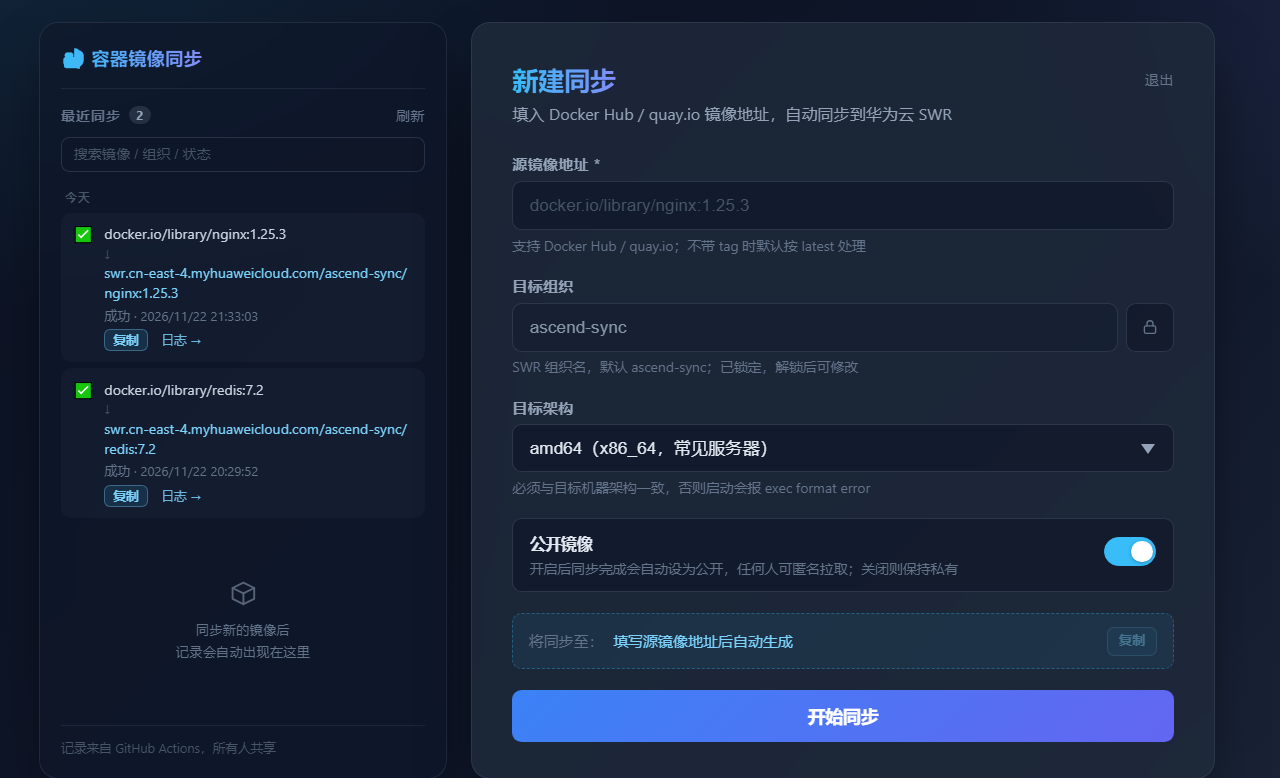
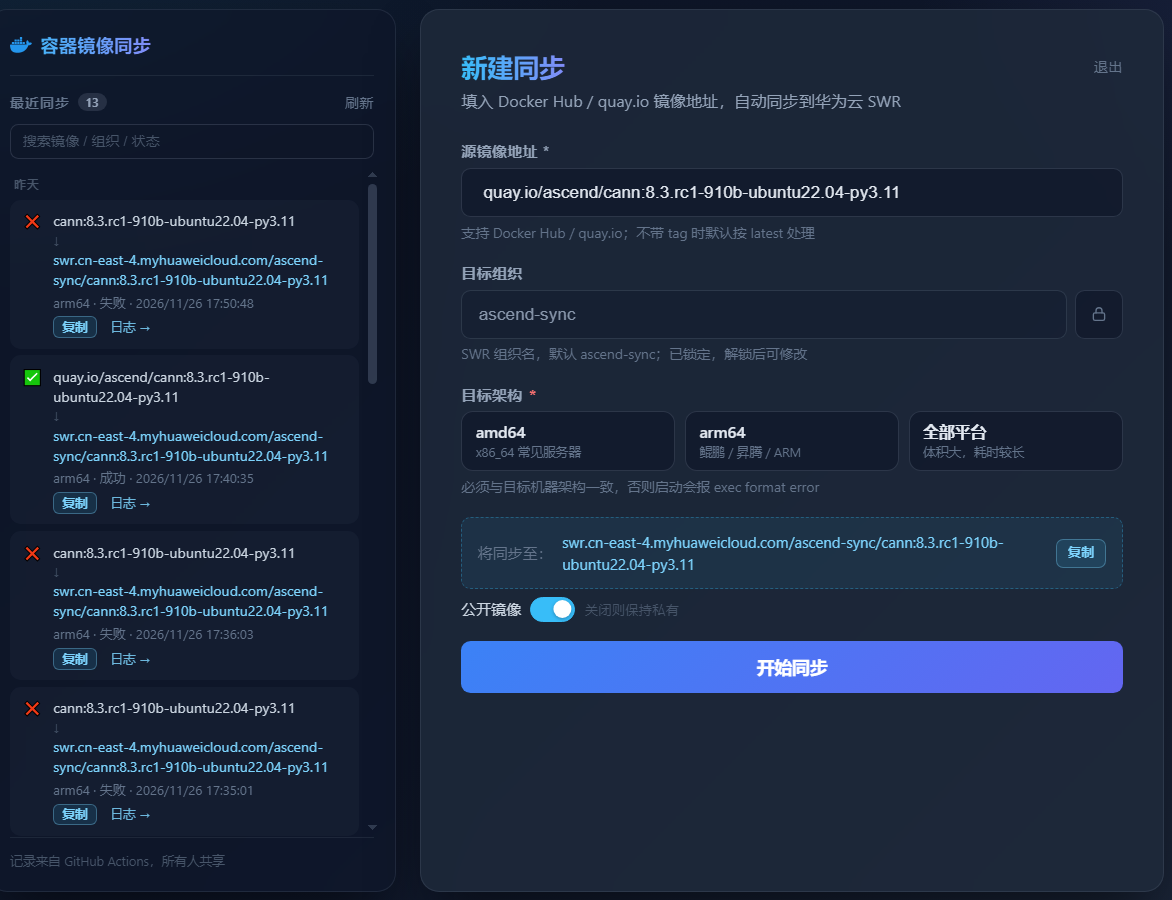
docs: correct arch default wording and refresh screenshots

diff --git a/README.md b/README.md
@@ -23,8 +23,9 @@
 |:---:|:---:|
 | ![亮色主题](docs/preview-light.png) | ![暗色主题](docs/preview-dark.png) |
 
-> 左侧是全局同步历史（来自 GitHub Actions，支持搜索、日期分组、复制镜像名）；右侧是新建同步表单：目标组织默认锁定、可选择 CPU 架构、可开关「公开镜像」。支持亮色 / 暗色 / 跟随系统三种主题。
+> 左侧是全局同步历史（来自 GitHub Actions，支持搜索、日期分组、显示架构、复制镜像名）；右侧是新建同步表单：目标组织默认锁定、**目标架构必选（无默认值）**、可选「公开镜像」。支持亮色 / 暗色 / 跟随系统三种主题。
 > 同步进度在右侧抽屉中展示，卡片高度不随进度变化；关闭抽屉后，表单下方会出现「正在同步… · 查看进度」状态条，点击可重新打开。
+> 源地址未写 registry 时，表单会提示「将按 Docker Hub 解析为 …」，避免把 quay.io 镜像误当官方镜像。
 
 ---
 
@@ -402,17 +403,6 @@ Docker Hub 匿名拉取按 IP 限流（GitHub runner 共享出口）。配置 `S
 **推送报 organization not found？**
 
 目标组织必须先在 SWR 控制台创建。
-
-**同步失败提示「源镜像无法访问」？**
-
-最常见原因是**源地址少了 registry/命名空间**。只写 `名称:tag` 会按 Docker Hub 官方镜像解析：
-
-| 你填的 | 实际拉取 |
-|---|---|
-| `cann:8.3.rc1-910b-ubuntu22.04-py3.11` | `docker.io/library/cann:...` ❌ |
-| `quay.io/ascend/cann:8.3.rc1-910b-ubuntu22.04-py3.11` | 同上（正确）✅ |
-
-页面在检测到「未填写 registry」时会给出黄色提示并显示实际解析结果；工作流失败时也会在 Job Summary 里用中文写明分类（地址错误 / tag 不存在 / 限流 / 网络）。
 
 **容器启动报 `exec format error`？**
 
